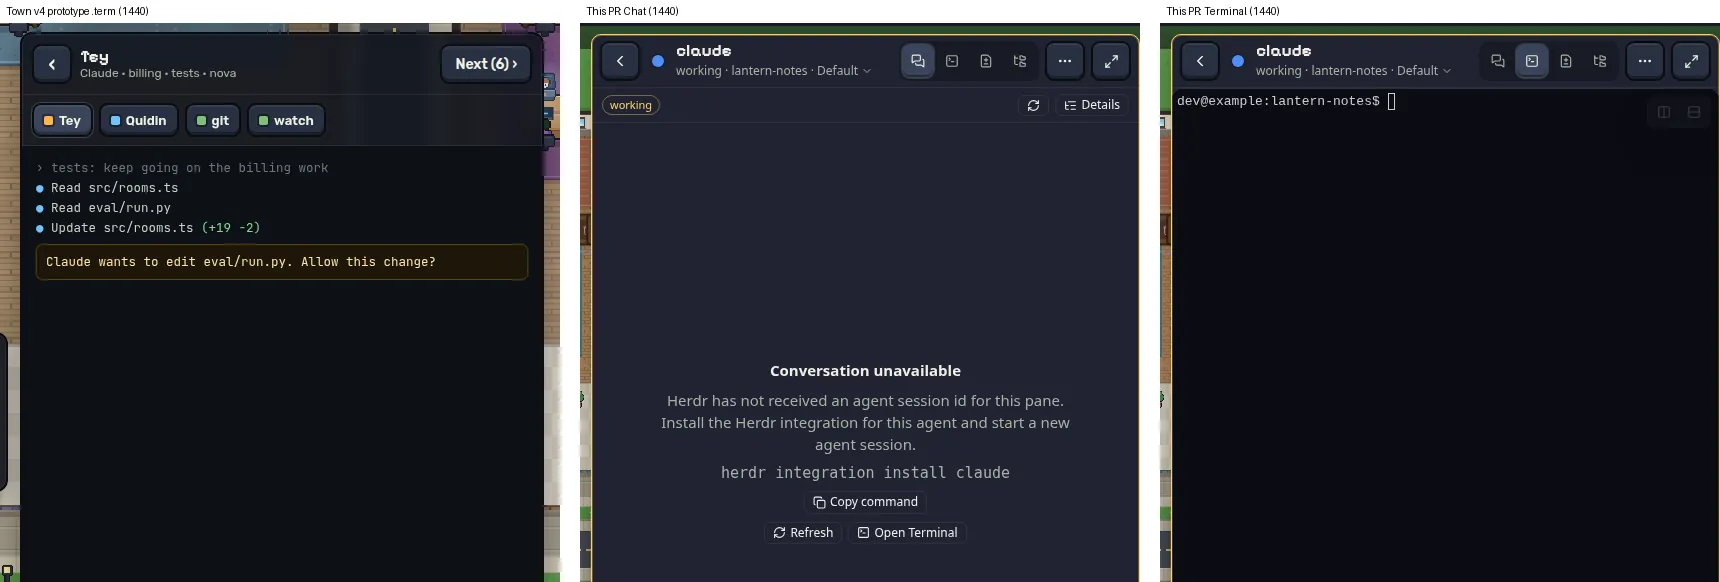
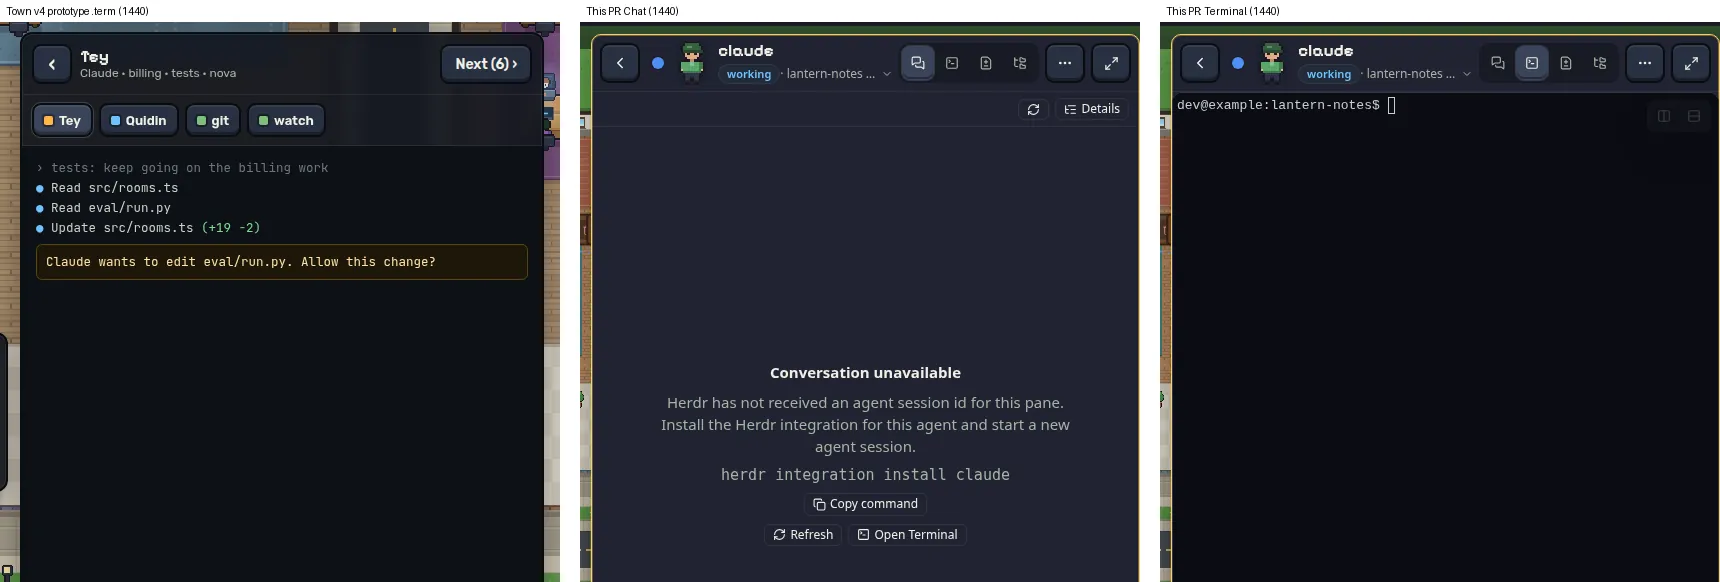
Draw Town's window like the Town peek: portrait, pixel name, status pill
In Town the Inspector names the agent with its Town portrait and shows the
status as a coloured pill before the location, as the peek window does.
Chat follows the peek's look through its tokens: message cards on the
terminal dark, a 2px-edged reply box and chunky buttons, without a second
status pill. A phone-width window keeps 40px targets and gives the name
room.

diff --git a/web/src/world/windows/windows.css b/web/src/world/windows/windows.css
@@ -457,18 +457,114 @@
     inset 0 -2px 0 rgba(0, 0, 0, 0.35),
     0 0 0 1px rgba(255, 255, 255, 0.14);
 }
-/* Like the prototype's panel, Town's bar names the agent without an avatar;
-   the colour swatch beside the name identifies the window. */
+/* Town names the agent as its peek does: the Town portrait, the pixel name,
+   and the status as a coloured pill before the location. */
 .is-town-skin .workspace-inspector-agent-identity {
-  grid-template-columns: minmax(0, 1fr);
+  grid-template-columns: 32px minmax(0, 1fr);
+  column-gap: 10px;
 }
 .is-town-skin .workspace-inspector-agent-avatar {
+  width: 32px;
+  height: 44px;
+  border: 0;
+  border-radius: 6px;
+  background: #1b2230;
+}
+.workspace-inspector-portrait {
+  width: 100%;
+  height: 100%;
+  object-fit: contain;
+  image-rendering: pixelated;
+}
+.is-town-skin .workspace-inspector-state {
+  display: inline-flex;
+  align-items: center;
+  padding: 1px 8px;
+  border: 1px solid rgba(255, 255, 255, 0.08);
+  border-radius: 999px;
+  background: #222b39;
+  color: var(--text);
+  font-size: 11px;
+  font-weight: 600;
+}
+.is-town-skin .workspace-inspector-state[data-tone="working"] {
+  color: #6fc3ff;
+}
+.is-town-skin .workspace-inspector-state[data-tone="blocked"] {
+  color: #ffb547;
+}
+.is-town-skin .workspace-inspector-state[data-tone="done"] {
+  color: #7be08f;
+}
+.is-town-skin .workspace-inspector-state[data-tone="idle"] {
+  color: #d9c39b;
+}
+/* Chat in Town reads like the Town peek: message cards on the terminal
+   dark, a reply row with a 2px edge, and chunky buttons. The header already
+   shows the status pill, so Chat's own copy of it stays out. */
+.is-town-skin .agent-chat {
+  --input-bg: #0d1117;
+  --border-soft: rgba(255, 255, 255, 0.08);
+  --accent-soft: #2a3446;
+}
+.is-town-skin .agent-chat-toolbar {
+  border-bottom-color: rgba(255, 255, 255, 0.07);
+}
+.is-town-skin .agent-chat-status {
   display: none;
 }
-.is-town-skin
-  .workspace-inspector-agent-identity
-  > :not(.workspace-inspector-agent-avatar) {
-  grid-column: 1;
+.is-town-skin .agent-chat-bubble {
+  color: #c9d1c3;
+  border: 0;
+  border-radius: 8px;
+}
+.is-town-skin .agent-chat-message.is-user .agent-chat-bubble {
+  color: var(--text);
+  border: 0;
+  border-radius: 8px;
+}
+.is-town-skin .agent-chat-composer {
+  border-top-color: rgba(255, 255, 255, 0.07);
+}
+.is-town-skin .agent-chat-composer textarea {
+  min-height: 40px;
+  border: 2px solid var(--town-edge);
+  border-radius: 9px;
+  font-size: 14px;
+}
+.is-town-skin .agent-chat-composer button {
+  width: auto;
+  min-width: 40px;
+  height: 40px;
+  padding: 0 12px;
+  color: var(--text);
+  background: var(--town-button);
+  border: 2px solid var(--town-edge);
+  border-radius: 9px;
+  box-shadow:
+    inset 0 -3px 0 rgba(0, 0, 0, 0.35),
+    inset 0 2px 0 rgba(255, 255, 255, 0.07);
+}
+/* A phone-width window gives the name room: tighter gaps and narrower view
+   icons, while every button stays a 40px target. */
+@container workspace-inspector (max-width: 399px) {
+  .is-town-skin .workspace-inspector-head {
+    gap: 4px;
+    padding-inline: 6px;
+  }
+  .is-town-skin .workspace-inspector-tabs {
+    gap: 0;
+    padding: 2px;
+  }
+  .is-town-skin .workspace-inspector-tabs > button {
+    padding: 0 6px;
+  }
+  .is-town-skin .workspace-inspector-agent-identity {
+    column-gap: 6px;
+  }
+  .is-town-skin .workspace-inspector-where {
+    display: none;
+  }
 }
 :where(html[data-layout="mobile"]) .world-managed-window.is-town-skin,
 :where(html[data-layout="mobile"])

diff --git a/web/src/components/WorkspaceInspectorHost.tsx b/web/src/components/WorkspaceInspectorHost.tsx
@@ -578,7 +578,13 @@ export function WorkspaceInspectorHost({
               className="workspace-inspector-agent-avatar"
               aria-hidden="true"
             >
-              {agentContext.kind === "agent" ? (
+              {agentContext.portrait ? (
+                <img
+                  className="workspace-inspector-portrait"
+                  src={agentContext.portrait}
+                  alt=""
+                />
+              ) : agentContext.kind === "agent" ? (
                 <AgentIcon
                   agent={agentContext.agent ?? agentContext.label}
                   compact
@@ -594,13 +600,18 @@ export function WorkspaceInspectorHost({
             </span>
             {locationLine(
               <>
-                <span className="workspace-inspector-state">
+                <span
+                  className="workspace-inspector-state"
+                  data-tone={agentContext.statusTone}
+                >
                   {agentContext.stateLabel}
                 </span>
-                {` · ${agentContext.locationLabel}`}
-                {agentContext.taskSummary
-                  ? ` · ${agentContext.taskSummary}`
-                  : ""}
+                <span className="workspace-inspector-where">
+                  {` · ${agentContext.locationLabel}`}
+                  {agentContext.taskSummary
+                    ? ` · ${agentContext.taskSummary}`
+                    : ""}
+                </span>
               </>,
               `${agentContext.kind}, ${agentContext.stateLabel}, ${agentContext.locationLabel}`,
             )}

diff --git a/web/src/world/WorldInspectorConversation.tsx b/web/src/world/WorldInspectorConversation.tsx
@@ -55,6 +55,7 @@ import {
   inspectorTerminalFileAdmitted,
   type InspectorTerminalFileRequest,
 } from "./inspectorTerminalHandoff";
+import { townPortrait } from "./town/townSprites";
 
 const emptyDiff = (): ActiveDiffSelection => ({
   entry: null,
@@ -103,6 +104,7 @@ function InspectorResources({
   onResourceFocus,
   windowControls,
   terminalColor,
+  townSkin = false,
   onWindowMaximize,
   windowMaximized = false,
   onTerminalPortalChange,
@@ -120,6 +122,8 @@ function InspectorResources({
   onResourceFocus(): void;
   windowControls?: ManagedWindowControls;
   terminalColor?: ManagedWindowControls["color"];
+  /** Town draws the agent with its Town portrait, as the town shows it. */
+  townSkin?: boolean;
   onWindowMaximize?(): void;
   windowMaximized?: boolean;
   onTerminalPortalChange(element: HTMLDivElement | null): void;
@@ -517,7 +521,14 @@ function InspectorResources({
                 setDiffSelection(emptyDiff());
               }
             }}
-            context={conversation.context}
+            context={
+              townSkin && conversation.context.kind === "agent"
+                ? {
+                    ...conversation.context,
+                    portrait: townPortrait(conversation.nodeId),
+                  }
+                : conversation.context
+            }
             agentCheckout={
               conversation.view === "changes" &&
               conversation.context.kind === "agent" &&

diff --git a/web/src/components/WorkspaceInspectorHost.css b/web/src/components/WorkspaceInspectorHost.css
@@ -547,6 +547,22 @@
   white-space: nowrap;
 }
 
+/* The status stays whole; only the place after it gives way. */
+.workspace-inspector-location-text:has(.workspace-inspector-where) {
+  display: flex;
+  align-items: center;
+}
+
+.workspace-inspector-state {
+  flex: 0 0 auto;
+}
+
+.workspace-inspector-where {
+  min-width: 0;
+  overflow: hidden;
+  text-overflow: ellipsis;
+}
+
 .workspace-inspector-location svg {
   flex: 0 0 auto;
 }

diff --git a/web/src/world/worldTerminalPresentation.ts b/web/src/world/worldTerminalPresentation.ts
@@ -184,7 +184,8 @@ function inspectorConversationEqual(
     left.context.stateLabel === right.context.stateLabel &&
     left.context.locationLabel === right.context.locationLabel &&
     left.context.agent === right.context.agent &&
-    left.context.taskSummary === right.context.taskSummary
+    left.context.taskSummary === right.context.taskSummary &&
+    left.context.statusTone === right.context.statusTone
   );
 }
 

diff --git a/web/src/world/WorldControlPlane.tsx b/web/src/world/WorldControlPlane.tsx
@@ -498,6 +498,7 @@ export function WorldControlPlane(props: WorldControlPlaneProps) {
               back: view === "town" ? { label: "Back to Town" } : undefined,
             }}
             terminalColor={inspectorColor(conversation)}
+            townSkin={view === "town"}
             onResourceFocus={() => {
               intentRequestRef.current++;
               const id = worldInspectorWindowId(conversation);

diff --git a/web/src/workspaceResource.ts b/web/src/workspaceResource.ts
@@ -18,6 +18,10 @@ export interface WorkspaceInspectorContext {
   locationLabel: string;
   agent?: string;
   taskSummary?: string;
+  /** The status as a tone (working, blocked, done, idle, unknown) for its pill. */
+  statusTone?: string;
+  /** An image of the agent, drawn by the host view in place of its icon. */
+  portrait?: string;
 }
 const DEFAULT_INSPECTOR_VIEWS: readonly InspectorView[] = [
   "files",

diff --git a/web/src/world/worldInspectorSelection.ts b/web/src/world/worldInspectorSelection.ts
@@ -116,6 +116,7 @@ export function worldInspectorContext(
       ? `${leaf.spaceLabel} · ${node.hostLabel}`
       : node.hostLabel,
     ...(leaf?.kind === "agent" ? { agent: leaf.pane.agent } : {}),
+    ...(leaf ? { statusTone: leaf.status } : {}),
     ...(leaf?.taskSummary ? { taskSummary: leaf.taskSummary } : {}),
   };
 }
